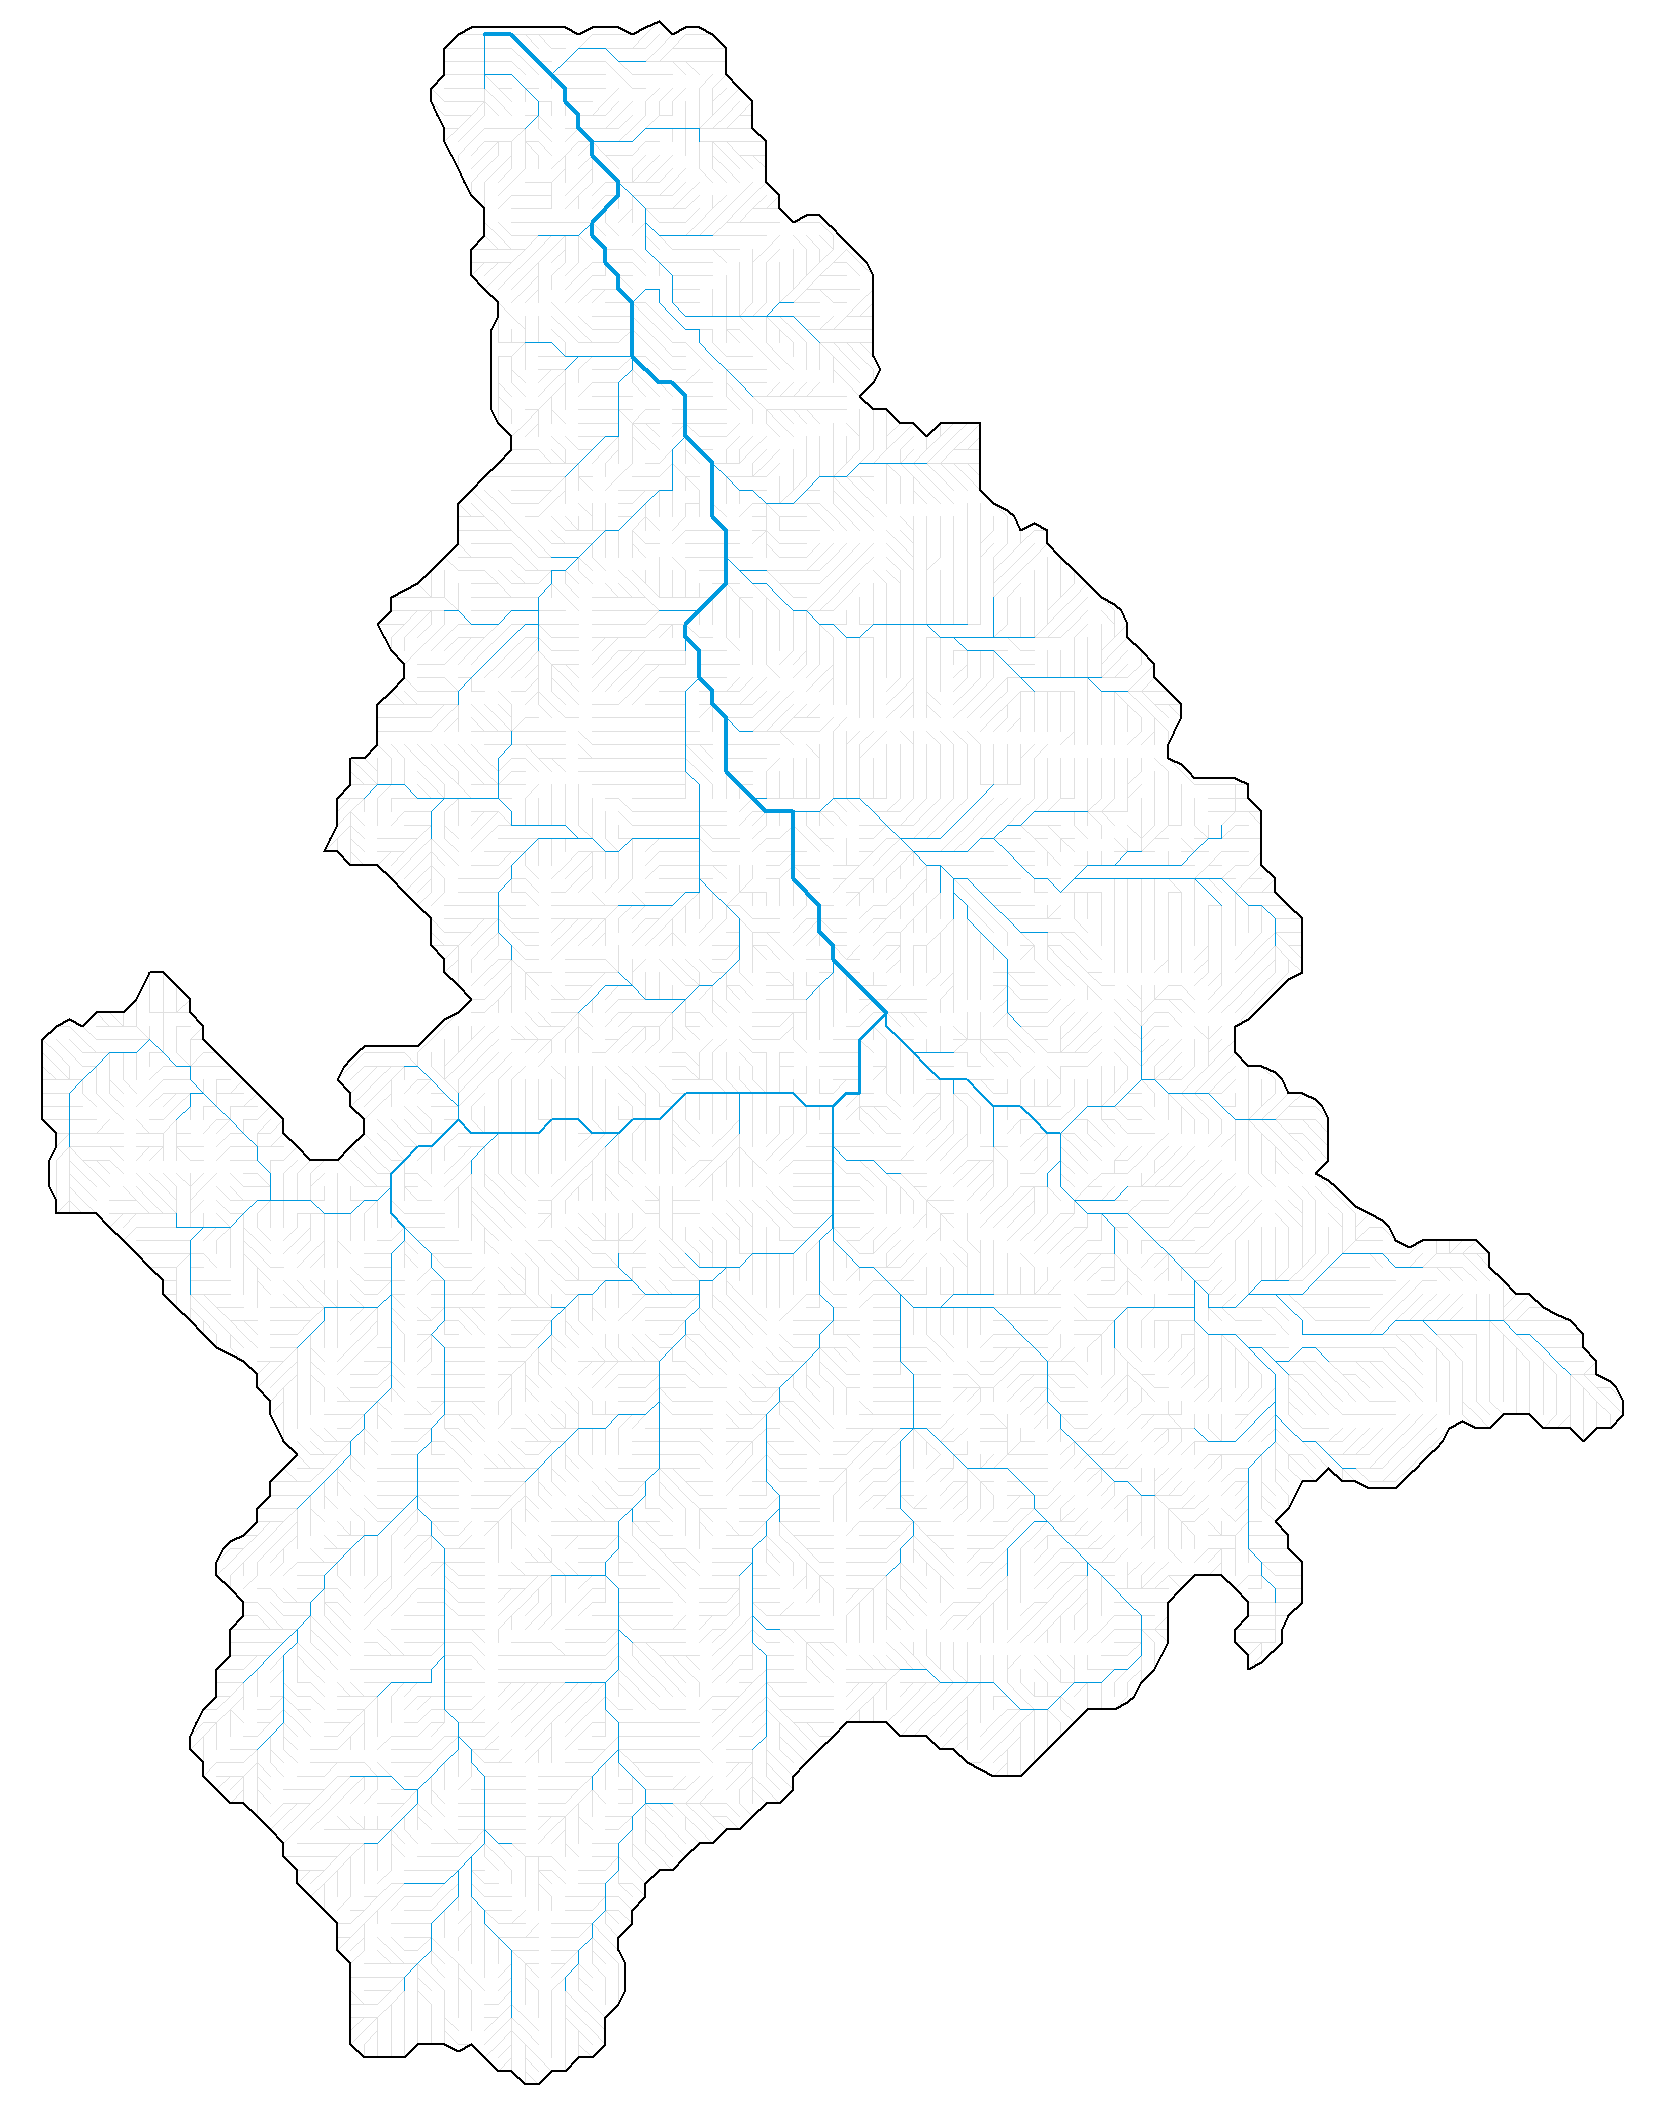
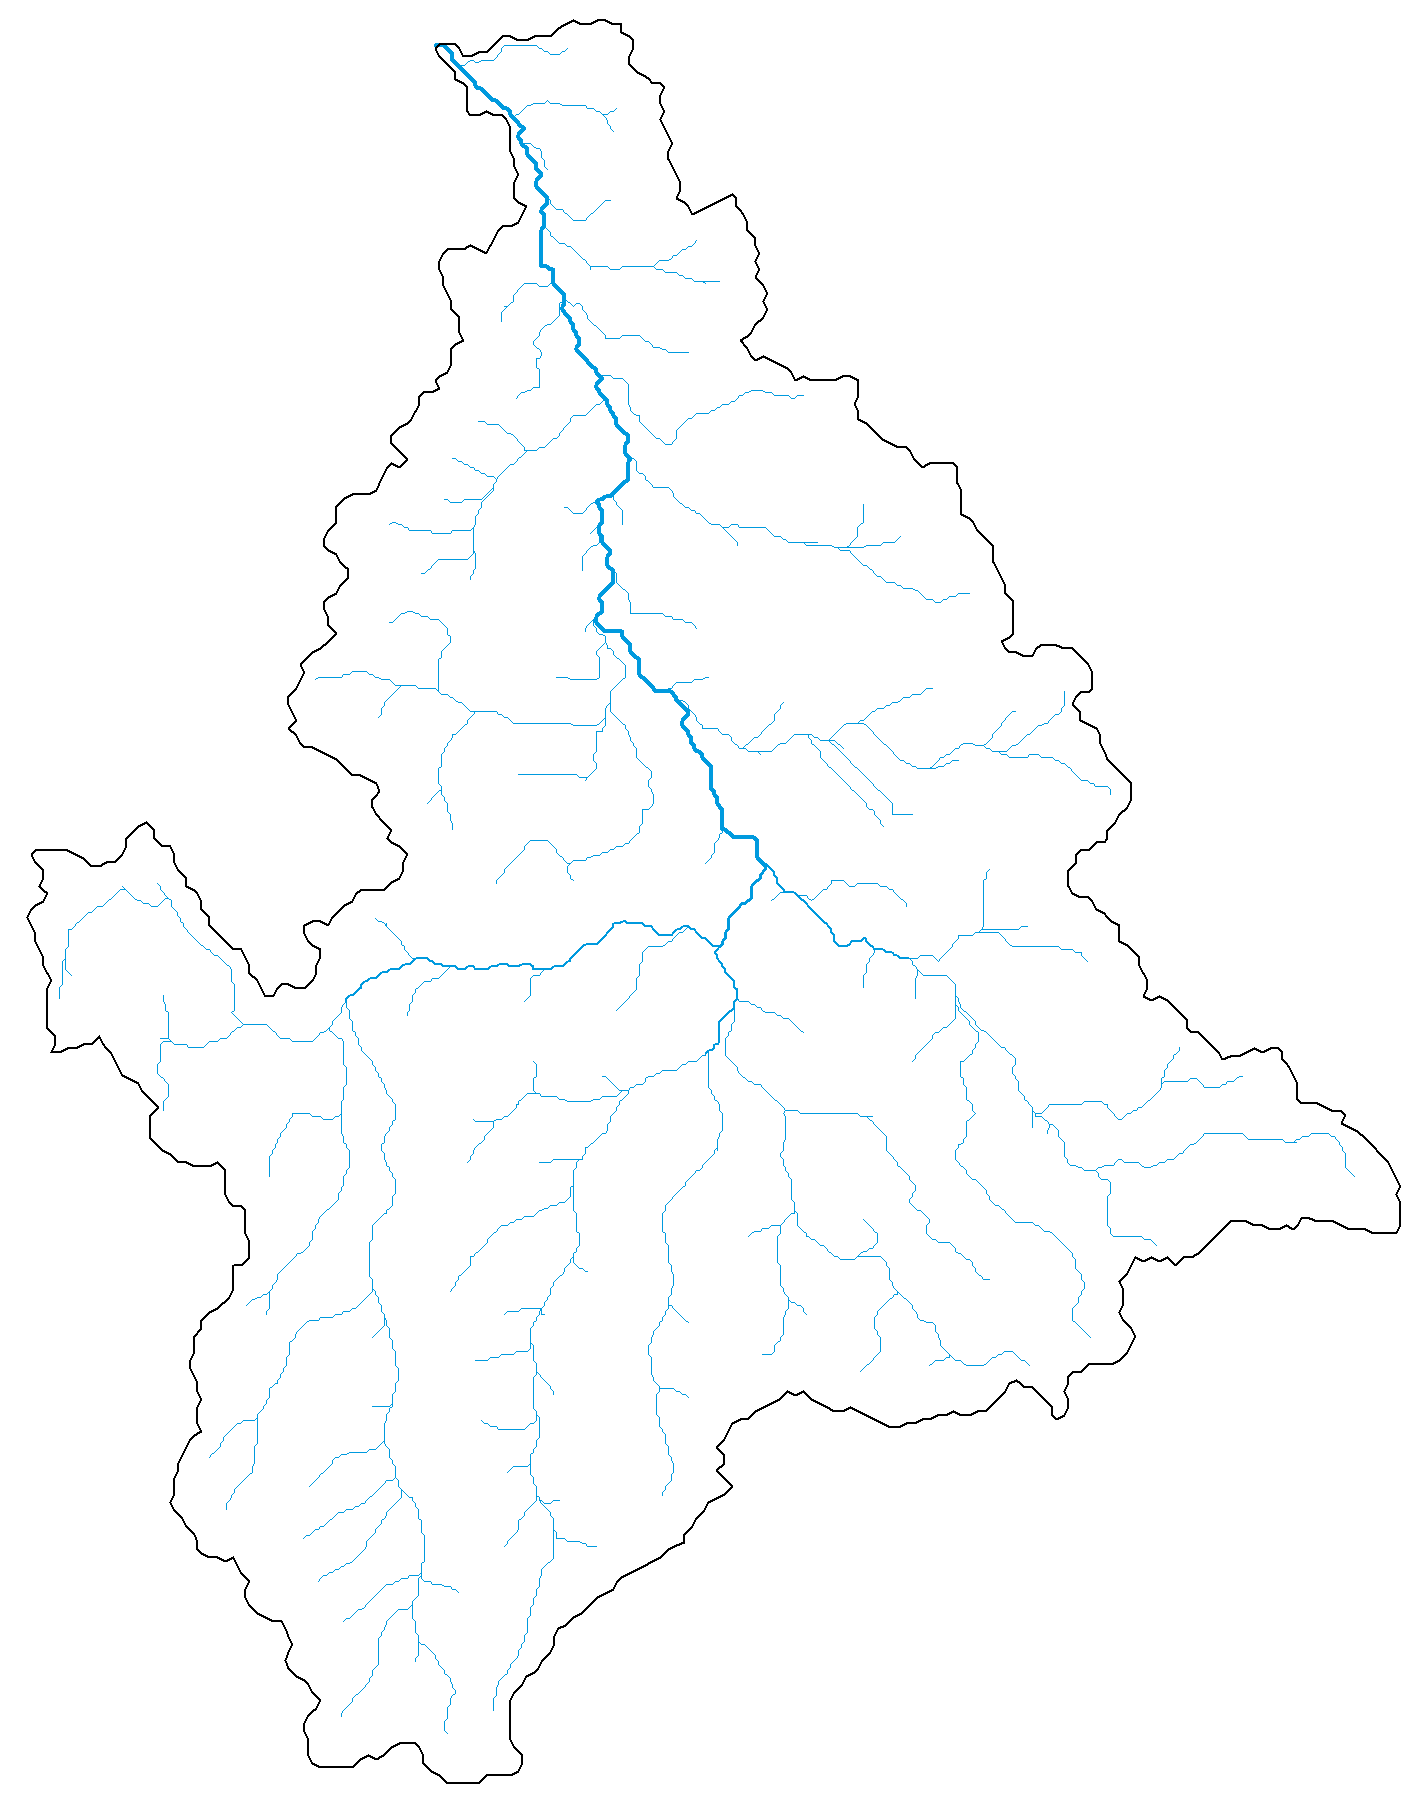
Deploying to gh-pages from @ lucarraro/rivnet@024a013a3626e29b797aaa863f7c15109a84ca6a 🚀

diff --git a/reference/extract_river.html b/reference/extract_river.html
@@ -53,7 +53,7 @@ Elevation data can be either downloaded from the web or provided externally.</p>
     <h2 id="ref-usage">Usage<a class="anchor" aria-label="anchor" href="#ref-usage"></a></h2>
     <div class="sourceCode"><pre class="sourceCode r"><code><span><span class="fu">extract_river</span><span class="op">(</span><span class="va">outlet</span>, EPSG<span class="op">=</span><span class="cn">NULL</span>, ext<span class="op">=</span><span class="cn">NULL</span>, z<span class="op">=</span><span class="cn">NULL</span>, DEM<span class="op">=</span><span class="cn">NULL</span>, </span>
 <span>  as.river<span class="op">=</span><span class="cn">TRUE</span>, as.rast<span class="op">=</span><span class="cn">FALSE</span>, filename<span class="op">=</span><span class="cn">NULL</span>, plot.rast<span class="op">=</span><span class="cn">FALSE</span>,</span>
-<span>  threshold_parameter<span class="op">=</span><span class="fl">1000</span>, n_processes<span class="op">=</span><span class="fl">1</span>, quiet<span class="op">=</span><span class="cn">TRUE</span>, src<span class="op">=</span><span class="st">"aws"</span><span class="op">)</span></span></code></pre></div>
+<span>  threshold_parameter<span class="op">=</span><span class="fl">1000</span>, n_processes<span class="op">=</span><span class="fl">1</span>, displayUpdates<span class="op">=</span><span class="cn">FALSE</span>, src<span class="op">=</span><span class="st">"aws"</span><span class="op">)</span></span></code></pre></div>
     </div>
 
     <div class="section level2">
@@ -107,8 +107,10 @@ documentation for details.</p></dd>
 <dt>n_processes</dt>
 <dd><p>Value passed to the <code>traudem</code> functions.</p></dd>
 
-<dt>quiet</dt>
-<dd><p>Logical. If <code>FALSE</code> console output is suppressed.</p></dd>
+<dt>displayUpdates</dt>
+<dd><p>Logical. If <code>FALSE</code> console output is suppressed (barring some messages from 
+<code><a href="https://rdrr.io/pkg/elevatr/man/get_elev_raster.html" class="external-link">elevatr::get_elev_raster</a></code>, if <code>DEM</code> is not provided). If <code>TRUE</code>, console output from 
+<code><a href="https://rdrr.io/pkg/elevatr/man/get_elev_raster.html" class="external-link">elevatr::get_elev_raster</a></code> and <code>traudem</code> functions is displayed.</p></dd>
 
 <dt>src</dt>
 <dd><p>Value passed to <code>get_elev_raster</code>.</p></dd>

diff --git a/articles/rivnet.html b/articles/rivnet.html
@@ -171,7 +171,7 @@ from open-source servers:</p>
 <code class="sourceCode R"><span><span class="va">r2</span> <span class="op">&lt;-</span> <span class="fu"><a href="../reference/extract_river.html">extract_river</a></span><span class="op">(</span>outlet <span class="op">=</span> <span class="fu"><a href="https://rdrr.io/r/base/c.html" class="external-link">c</a></span><span class="op">(</span><span class="fl">637478</span>, <span class="fl">237413</span><span class="op">)</span>,</span>
 <span>    EPSG <span class="op">=</span> <span class="fl">21781</span>, <span class="co">#CH1903/LV03 coordinate system</span></span>
 <span>    ext <span class="op">=</span> <span class="fu"><a href="https://rdrr.io/r/base/c.html" class="external-link">c</a></span><span class="op">(</span><span class="fl">6.2e5</span>, <span class="fl">6.6e5</span>, <span class="fl">2e5</span>, <span class="fl">2.5e5</span><span class="op">)</span>,</span>
-<span>    z <span class="op">=</span> <span class="fl">8</span><span class="op">)</span></span>
+<span>    z <span class="op">=</span> <span class="fl">10</span><span class="op">)</span></span>
 <span></span>
 <span><span class="fu"><a href="../reference/plot.html">plot</a></span><span class="op">(</span><span class="va">r2</span><span class="op">)</span></span></code></pre></div>
 <p><img src="wigger1.png" width="80%"></p>
